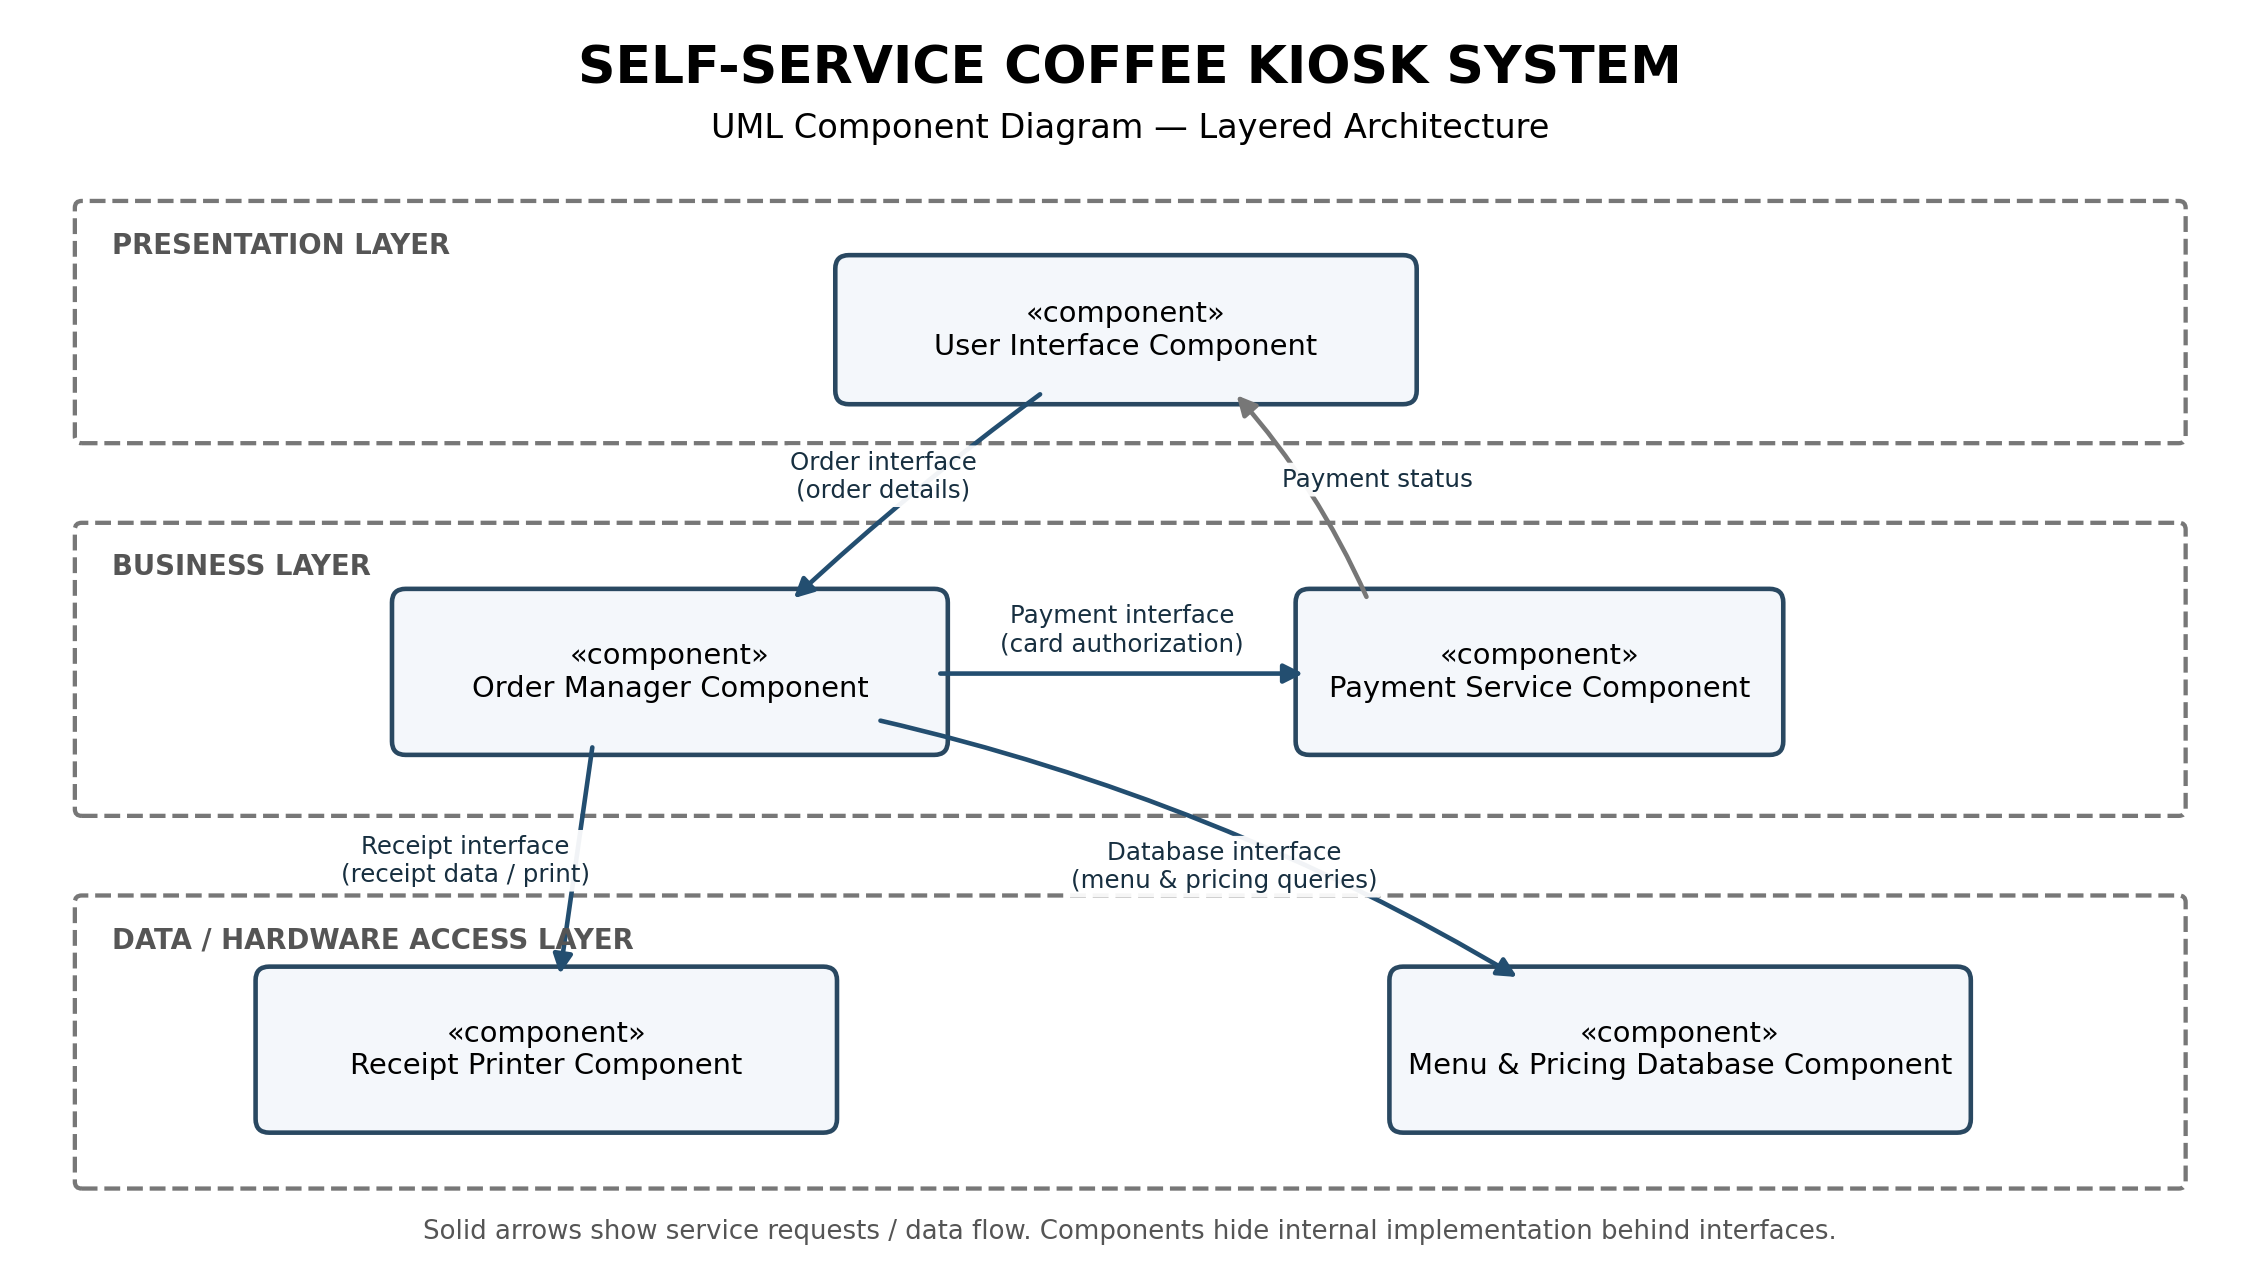
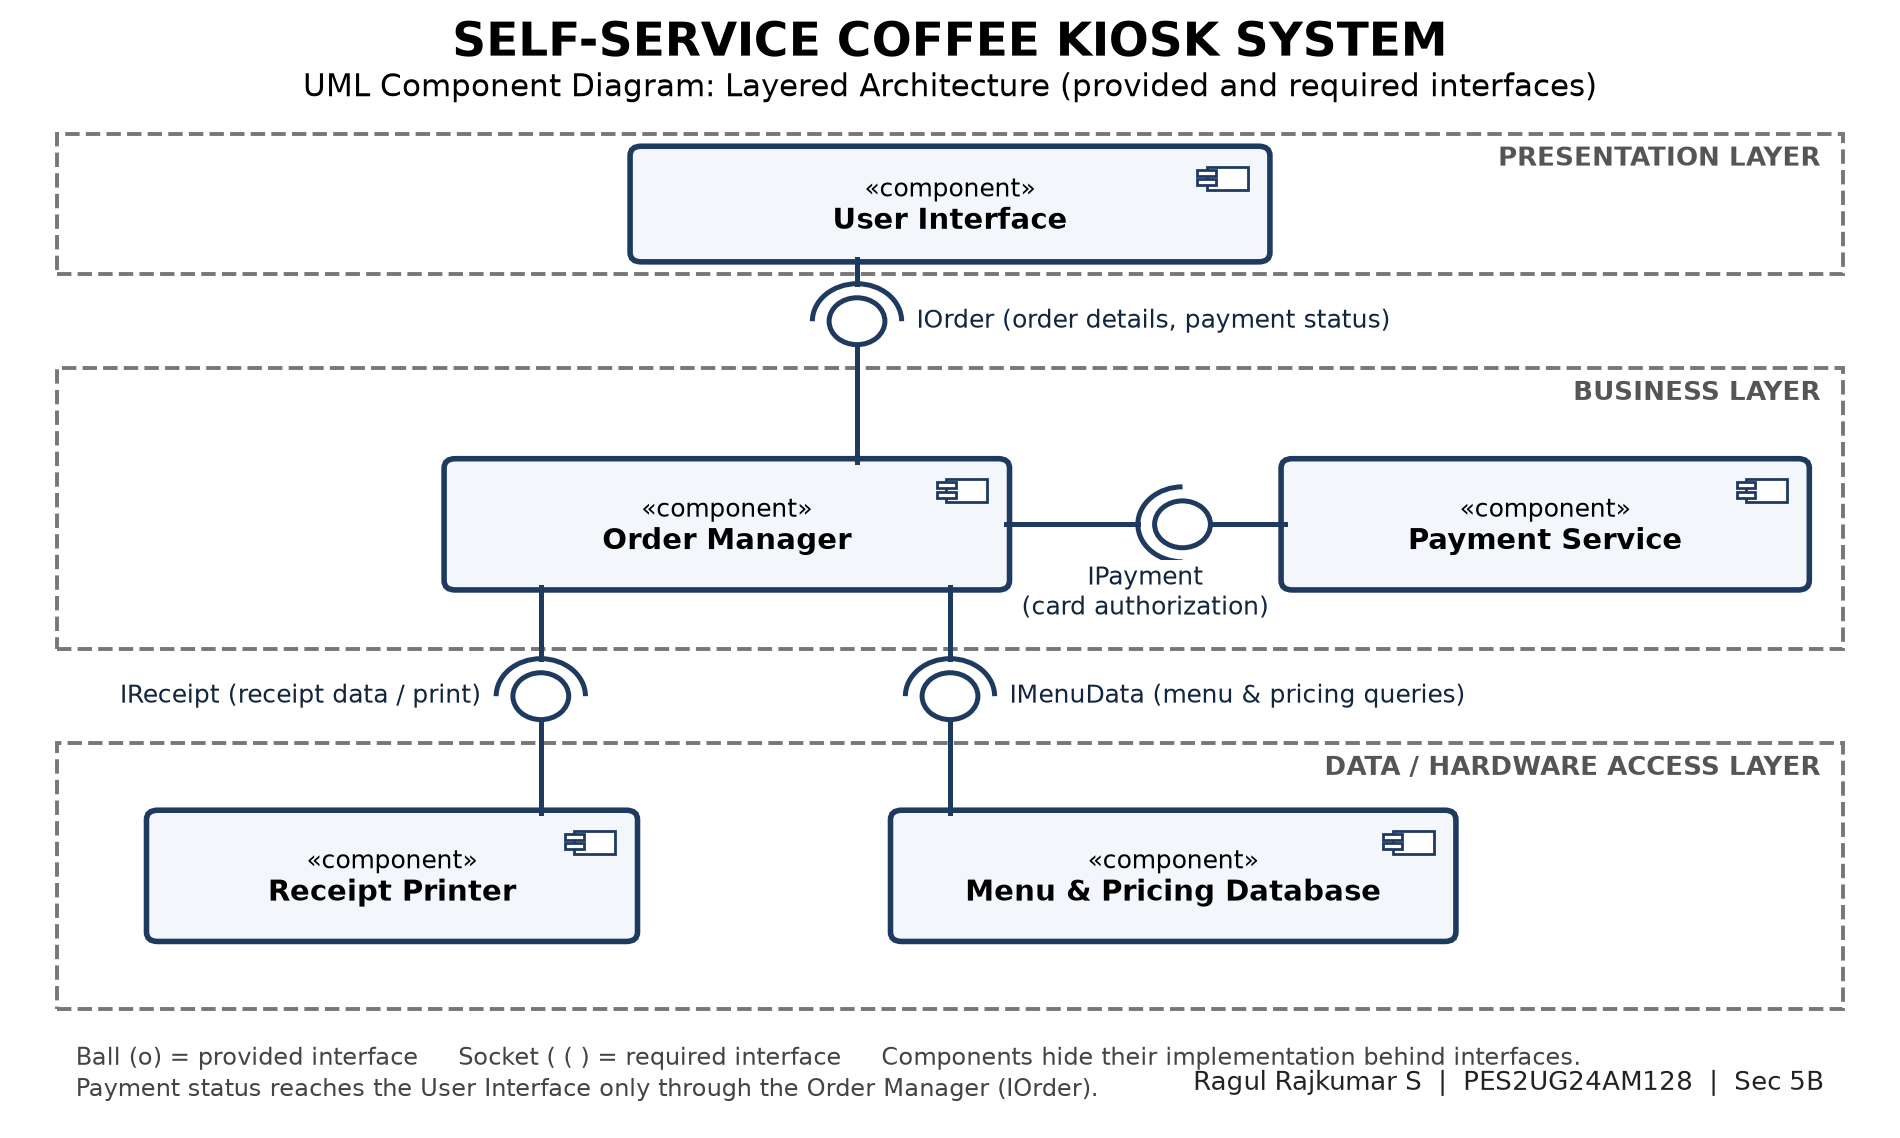
Lab 3: redraw diagram with provided/required interfaces, add name, compare alternatives

diff --git a/README.md b/README.md
@@ -11,7 +11,7 @@ Sprint 1 burndown chart.
 ## Lab 3: Component modelling and architectural pattern selection
 Scenario: Self-Service Coffee Kiosk System.
 - `Lab3/Lab3_Coffee_Kiosk_Component_Diagram.png`: UML component diagram with 5 components (User Interface, Order Manager,
-  Payment Service, Receipt Printer, Menu and Pricing Database) in three layers, with four labelled interfaces
-  (Order, Payment, Receipt, Database).
+  Payment Service, Receipt Printer, Menu and Pricing Database) in three layers. Four interfaces use provided (ball) and
+  required (socket) notation: IOrder, IPayment, IReceipt, IMenuData. Payment status reaches the UI through the Order Manager.
 - `Lab3/Lab3_Coffee_Kiosk_Architecture_Justification.pdf` / `.docx`: one-page justification for choosing **Layered Architecture**,
-  covering separation of concerns, a security advantage and a performance benefit.
+  with a comparison against Microservices and Client-Server, plus the security and performance arguments.
